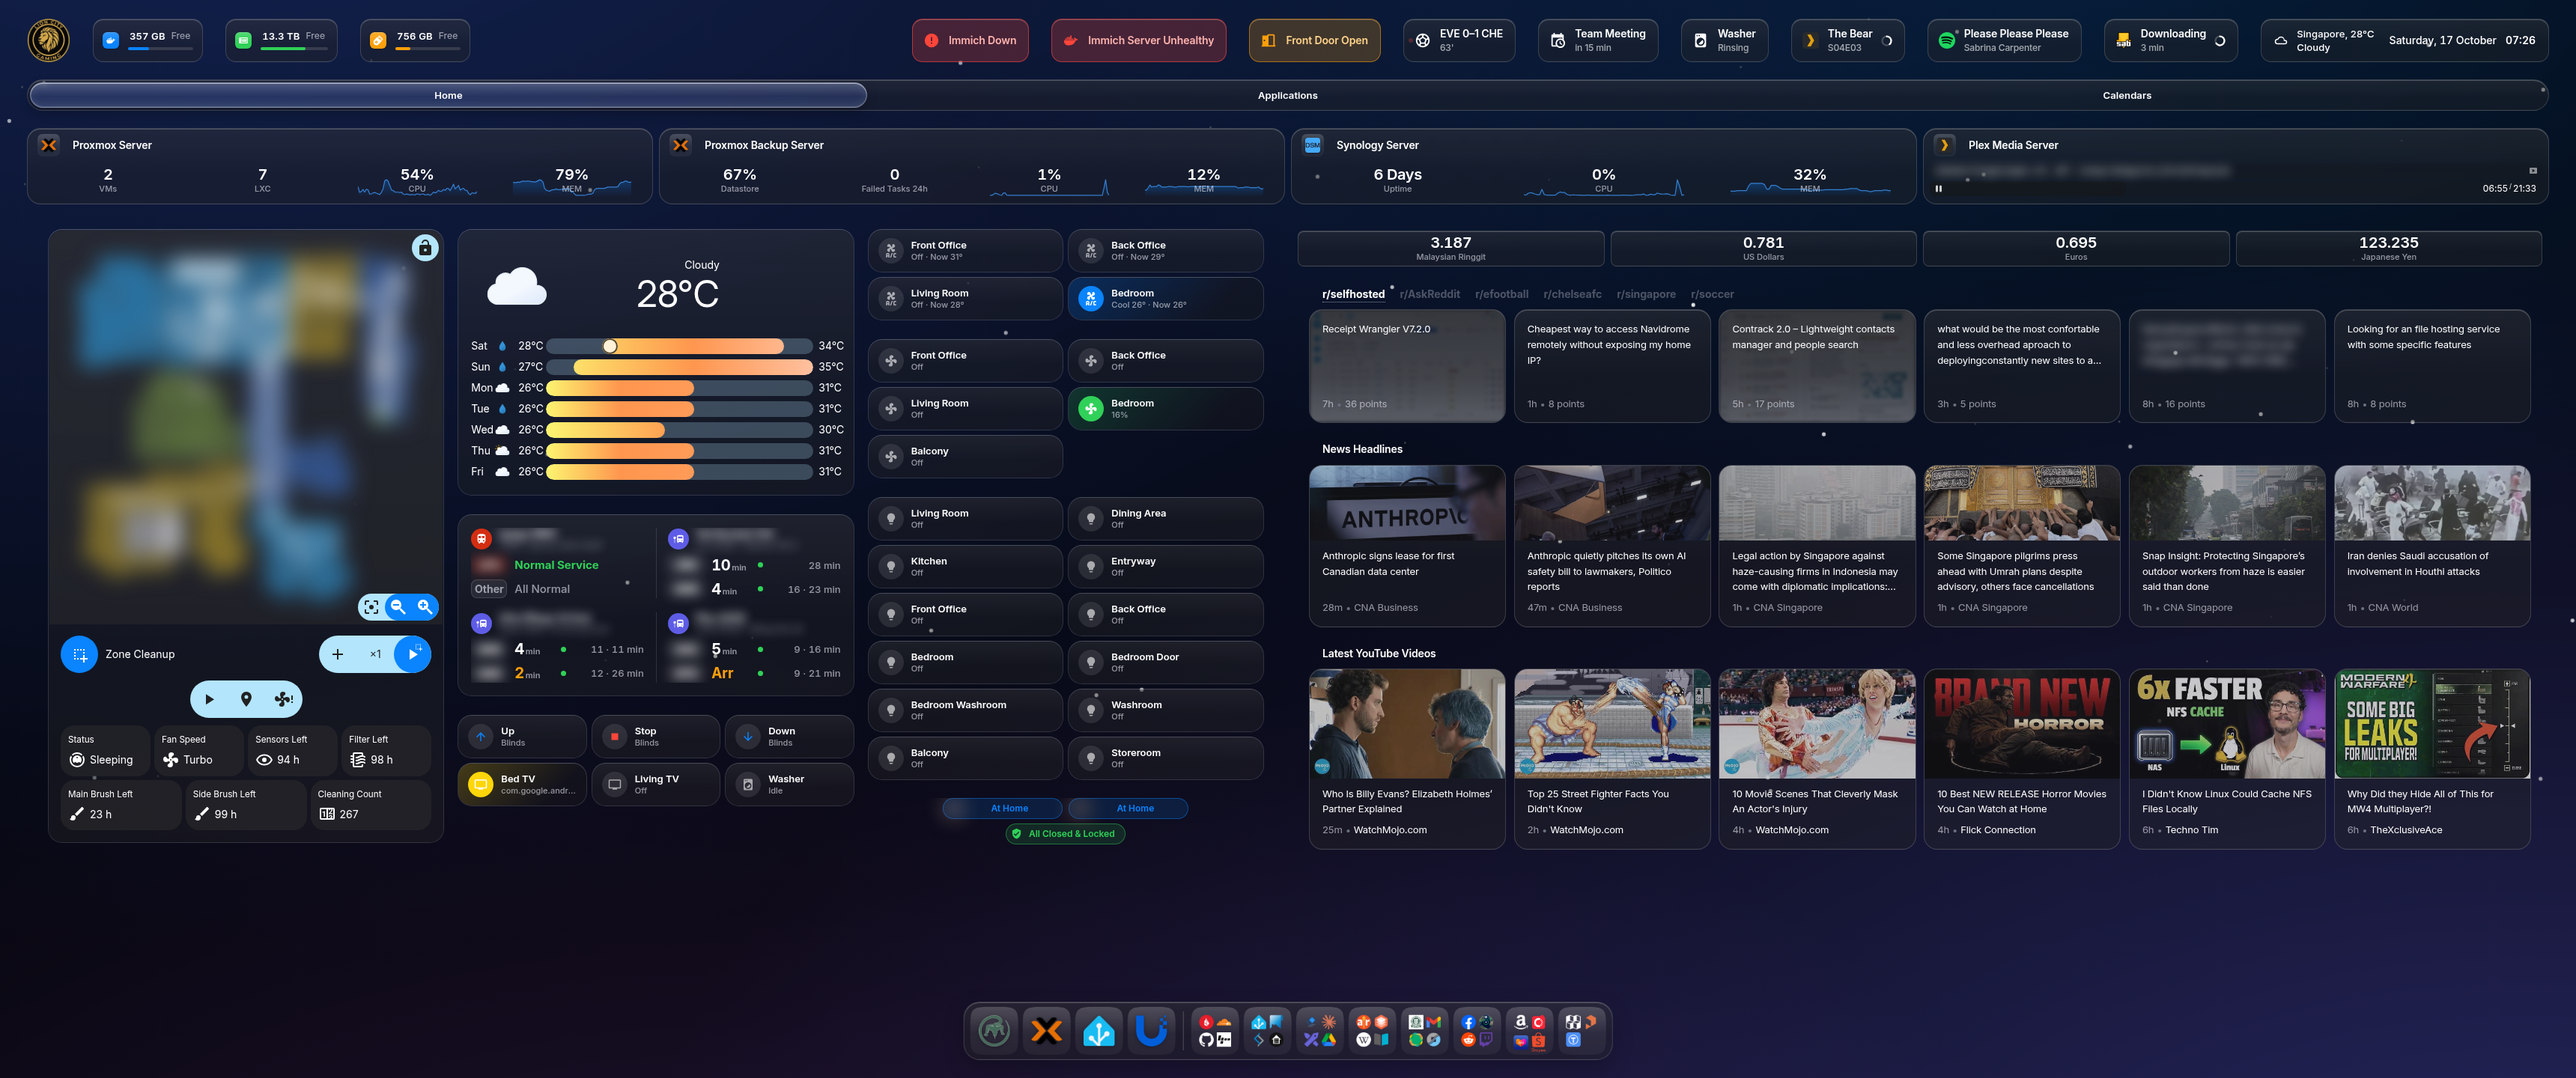
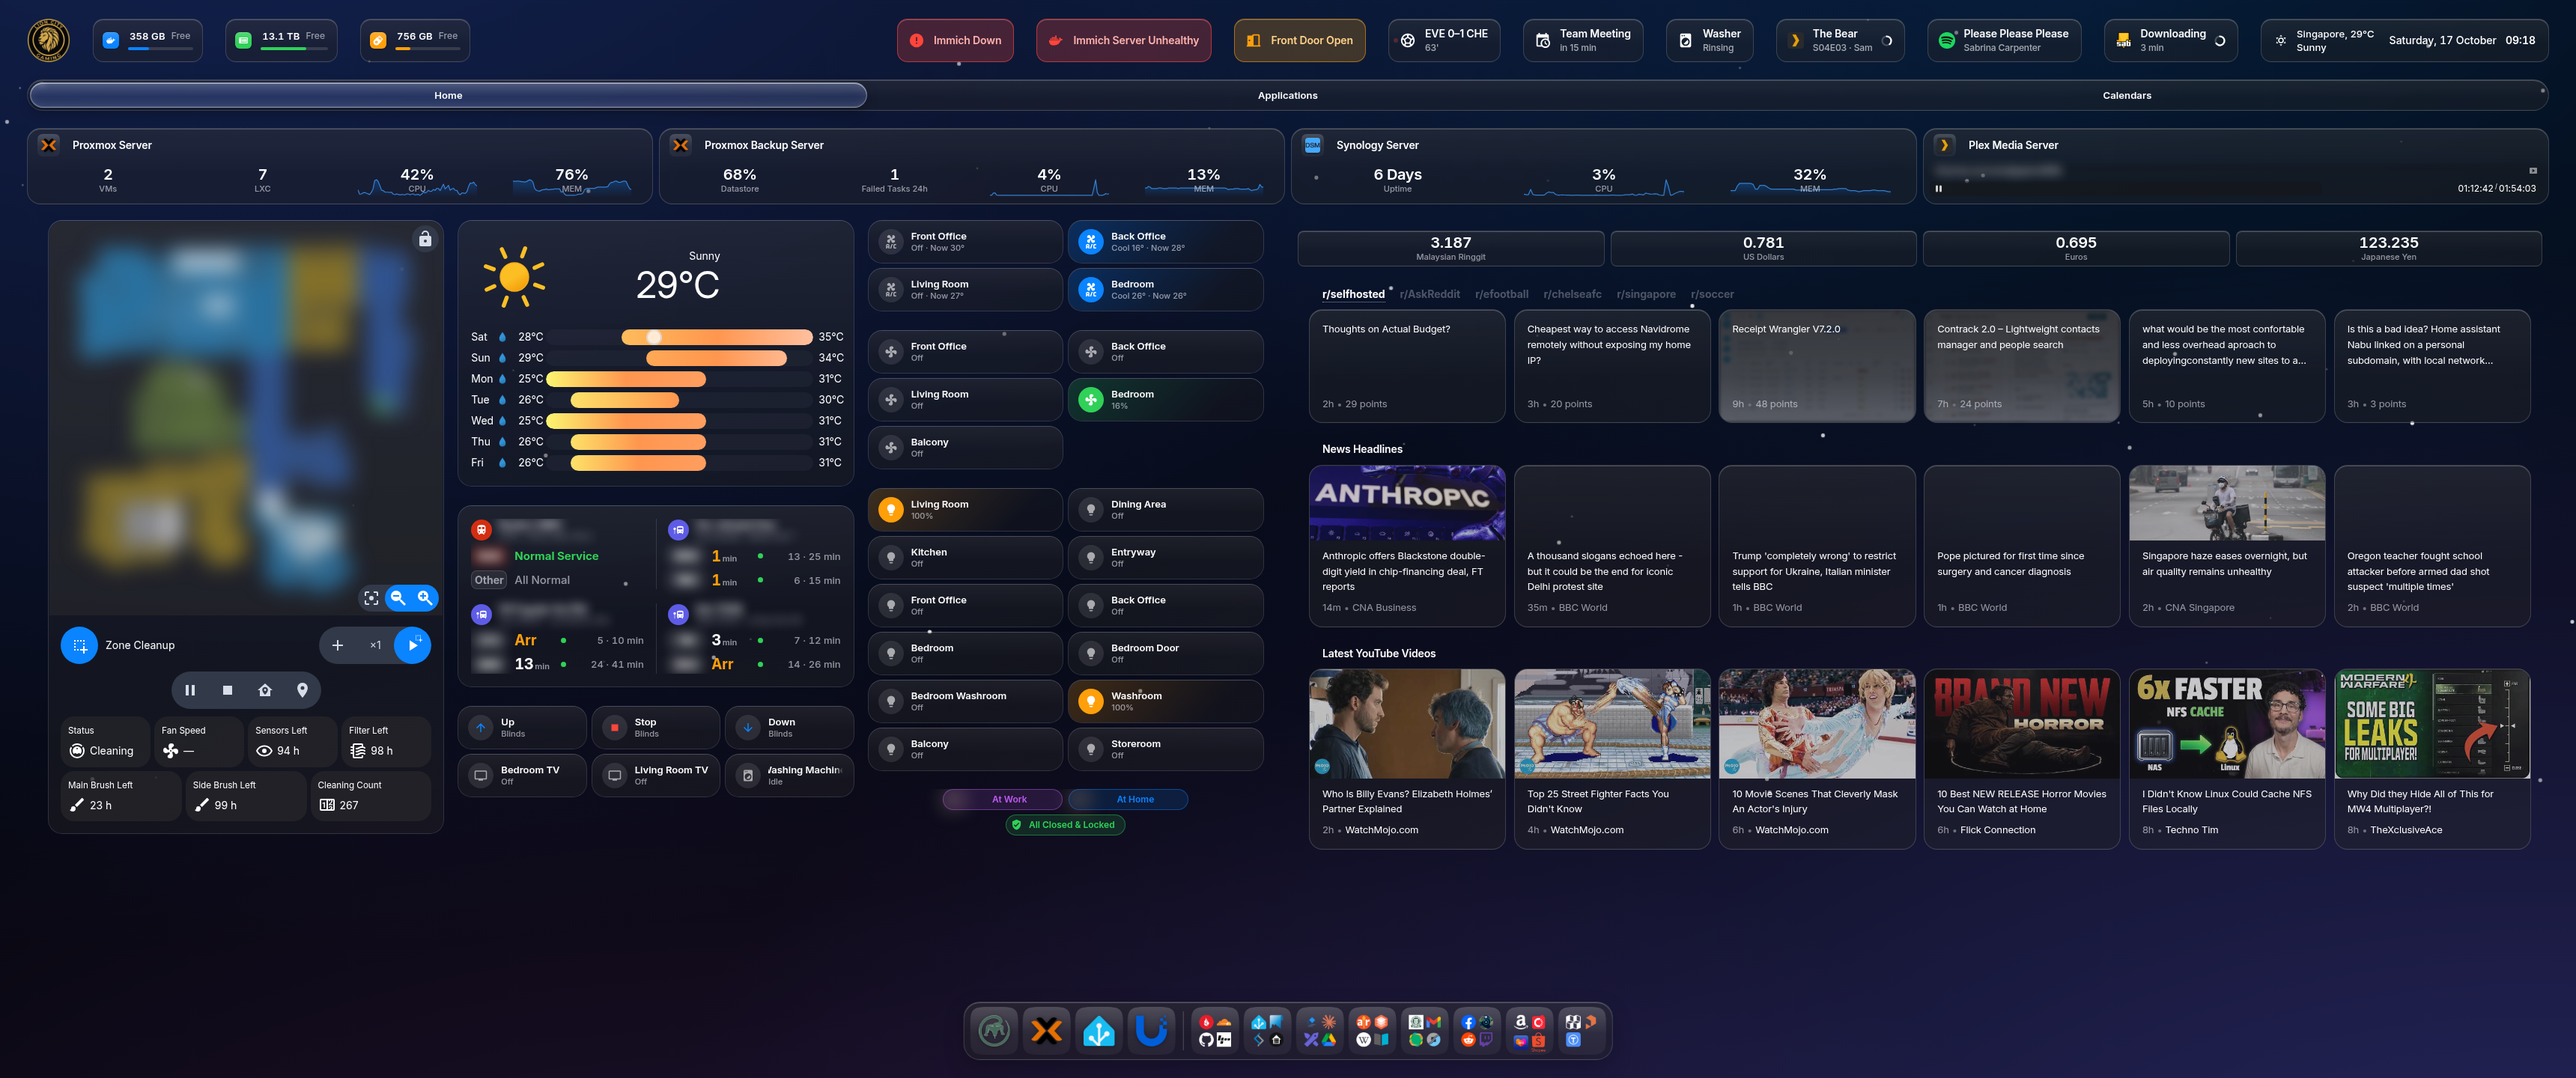
Long button names glide in the Home Assistant panels, every glide ends with its last letter clear, Plex Live Activity shows who is watching; new screenshots

diff --git a/extras/home-assistant-glass-embed.js b/extras/home-assistant-glass-embed.js
@@ -12,6 +12,8 @@
 // that page CSS can't reach, so each small card's shadow root gets a few CSS rules of its own (see below).
 // 16/10/2026: Liquid Glass (macOS 26), same as Homepage's "LIQUID GLASS" block and Glance: clearer cards (a 40% tint, was
 // 52%), a bright rim of light on the top edge, a lighter hairline; then the same sheen as Homepage's cards, no hover effects.
+// 17/10/2026: a button's name or status that is too long glides to its end and back (like Homepage's Gotify message and
+// Live Activities) instead of being cut off with "...".
 // Install: Settings > Dashboards > Resources > Add resource, type JavaScript module (or add it with the API as an
 // inline resource). Change EMBEDS to the dashboards you show in Homepage; the outline drawn just outside each card is
 // used on "/dashboard-homepage" only (the tile panel), as panels made of one full-frame card would clip it.
@@ -100,13 +102,39 @@
     "ha-card:not([data-hp-clear]) { background-origin: border-box !important; }" +
     // HA's pointer highlight off on every card (16/10/2026, user: still a "weird animation" on hover: a 4% white fade).
     // Button-card sets its own value on each tile, which beat the page-wide one, so it is set on the ripple itself
-    "ha-ripple, mwc-ripple, md-ripple { --md-ripple-hover-opacity: 0 !important; --ha-ripple-hover-opacity: 0 !important; --mdc-ripple-hover-opacity: 0 !important; }";
+    "ha-ripple, mwc-ripple, md-ripple { --md-ripple-hover-opacity: 0 !important; --ha-ripple-hover-opacity: 0 !important; --mdc-ripple-hover-opacity: 0 !important; }" +
+    // long names glide (glide() below marks them): same timing, pause and fade as Homepage's .hp-glide (custom.css)
+    ".hp-glide { text-overflow: clip !important; }" +
+    ".hp-glide-on { -webkit-mask: linear-gradient(90deg, #000 88%, transparent); mask: linear-gradient(90deg, #000 88%, transparent);" +
+    " animation: hp-glide var(--glide, 4s) ease-in-out 0.8s infinite alternate; }" +
+    "@keyframes hp-glide { 0%, 12% { text-indent: 0; } 88%, 100% { text-indent: var(--shift, 0); } }" +
+    "@media (prefers-reduced-motion: reduce) { .hp-glide-on { animation: none; -webkit-mask: none; mask: none; text-overflow: ellipsis !important; } }";
   // Only on the Home panel: the calendar, To Do and EPL panels are one card filling the whole frame, so a ring outside it
   // fell just beyond the frame and was cut off (user 16/10/2026: calendar borders disappearing). Those cards start on
   // whole pixels, so they keep a plain border
   if (p.indexOf("/dashboard-homepage") === 0) GLASS = GLASS +
     "ha-card:not([data-hp-clear]) { border-color: transparent !important; box-shadow: 0 0 0 0.5px rgba(255, 255, 255, 0.16), 0 -0.5px 0 0 rgba(255, 255, 255, 0.12) !important; }" +
     "@media (max-resolution: 1.5dppx) { ha-card:not([data-hp-clear]) { box-shadow: 0 0 0 1px rgba(255, 255, 255, 0.16), 0 -1px 0 0 rgba(255, 255, 255, 0.12) !important; } }";
+  // a button-card's name, status or state that doesn't fit: measured again only when its text or the button's width
+  // changes, so a running glide isn't restarted by every scan
+  function glide(el) {
+    var host = el.getRootNode().host, key = el.textContent + "|" + (host ? host.offsetWidth : 0);
+    // (the class is checked too: button-card can rewrite an element's classes when its entity updates)
+    if (!el.clientWidth || (el.getAttribute("data-glide-key") === key && el.classList.contains("hp-glide"))) return;
+    el.setAttribute("data-glide-key", key);
+    el.classList.add("hp-glide");
+    el.classList.remove("hp-glide-on");
+    el.style.removeProperty("width");
+    var over = el.scrollWidth - el.clientWidth;
+    if (over > 2) {
+      // held at its resting width: button-card's grid sizes the name to its text, so the box (and its fade) shrank as
+      // the text slid, and the fade caught the last letter again
+      el.style.width = el.clientWidth + "px";
+      el.style.setProperty("--shift", -(over + Math.ceil(el.clientWidth * 0.12)) + "px");  // past the end by the fade (right 12%), so the last letter shows
+      el.style.setProperty("--glide", Math.max(2, over / 30).toFixed(1) + "s");  // about 30 px a second, like Homepage
+      el.classList.add("hp-glide-on");
+    }
+  }
   function springRoots(node) {
     if (!node) return;
     if (node.tagName === "HA-CARD") {
@@ -123,6 +151,7 @@
         gl.textContent = GLASS;
         root.appendChild(gl);
       }
+      if (root !== document && root.host && root.host.tagName === "BUTTON-CARD") root.querySelectorAll("#name, #label, #state").forEach(glide);
       // only a root holding this one card (a big card's stack would grow with it), and only small cards
       if (h > 0 && h <= 140 && root !== document && root.host && !root.querySelector("style[data-hp-spring]") &&
           root.querySelectorAll("ha-card").length === 1) {

diff --git a/custom.js b/custom.js
@@ -395,7 +395,8 @@
       v.classList.remove("hp-glide-on");
       const over = v.scrollWidth - v.clientWidth;
       if (over > 2) {
-        v.style.setProperty("--shift", -over + "px");
+        // past the end by the fade's width (the right 12%, custom.css), so the last letter stops clear of it (user 17/10/2026)
+        v.style.setProperty("--shift", -(over + Math.ceil(v.clientWidth * 0.12)) + "px");
         v.style.setProperty("--glide", Math.max(2, over / 30).toFixed(1) + "s");  // about 30 px a second, like the Live Activities
         v.classList.add("hp-glide-on");
       }
@@ -1208,12 +1209,13 @@
       }));
       return out;
     }) },
-    // media: Plex (Tautulli on the Home tab's Plex card), up to two streams
+    // media: Plex (Tautulli on the Home tab's Plex card), up to two streams; the second line ends with who is watching
+    // (Tautulli's friendly name for the Plex user; user 17/10/2026)
     plex: { every: 15, read: () => proxy("group=Home&service=Plex%20Media%20Server&index=0&endpoint=get_activity").then((d) =>
       ((((d || {}).response || {}).data || {}).sessions || []).slice(0, 2).map((s) => {
         const ep = s.media_type === "episode" && s.parent_media_index ? " · S" + String(s.parent_media_index).padStart(2, "0") + "E" + String(s.media_index).padStart(2, "0") : "";
-        const name = (s.grandparent_title || s.title || "Plex") + ep;
-        return pill({ group: "media", icon: ICON_URL("plex"), text: (s.state === "paused" ? "❚❚ " : "") + name, pct: +s.progress_percent || 0,
+        const name = (s.grandparent_title || s.title || "Plex") + ep, who = s.friendly_name || s.user || "";
+        return pill({ group: "media", icon: ICON_URL("plex"), text: (s.state === "paused" ? "❚❚ " : "") + name + (who ? " · " + who : ""), pct: +s.progress_percent || 0,
           tip: (s.full_title || name) + " · " + (s.state || "playing") + " · " + (s.progress_percent || 0) + "%" + (s.player ? " · " + s.player : "") });
       })) },
     // downloads: SABnzbd
@@ -1233,7 +1235,7 @@
     pill({ group: "sport", icon: MDI("soccer"), mono: true, tone: "live", text: "EVE 0–1 CHE · 63'", tip: "Chelsea at Everton · live" }),
     pill({ group: "soon", icon: MDI("calendar-clock"), mono: true, text: "Team Meeting · in 15 min", tip: "Team Meeting at 10:00" }),
     pill({ group: "home", icon: MDI("washing-machine"), mono: true, text: "Washer · Rinsing", tip: "Washer: Rinse" }),
-    pill({ group: "media", icon: ICON_URL("plex"), text: "The Bear · S04E03", pct: 38, tip: "The Bear - S04E03 · playing · 38%" }),
+    pill({ group: "media", icon: ICON_URL("plex"), text: "The Bear · S04E03 · Sam", pct: 38, tip: "The Bear - S04E03 · playing · 38%" }),
     pill({ group: "media", icon: ICON_URL("spotify"), text: "Please Please Please · Sabrina Carpenter", tip: "You · Please Please Please · Sabrina Carpenter" }),
     pill({ group: "download", icon: ICON_URL("sabnzbd"), text: "Downloading · 3 min", pct: 64, tip: "1 download · 64% · 48 MB/s" }),
   ];
@@ -1295,7 +1297,7 @@
       const over = t.firstChild.scrollWidth - t.clientWidth;
       if (over > 2) {
         t.classList.add("hp-live-glide");
-        t.style.setProperty("--shift", -over + "px");
+        t.style.setProperty("--shift", -(over + Math.ceil(t.clientWidth * 0.15)) + "px");  // past the end by the fade (right 15%), so the last letter shows
         t.style.setProperty("--glide", Math.max(2, over / 30).toFixed(1) + "s");  // about 30 px a second
       }
     });

diff --git a/README.md b/README.md
@@ -50,7 +50,7 @@
 
 ### Live information
 
-- **Live Activities.** Two-line glass boxes in the menu bar, like the disks, that only appear while something is happening: a service or container down (named, with its state), a door open, your football team's kick-off countdown and live score, a meeting in the next 30 minutes, a birthday or public holiday, the washer with its stage, the vacuum's progress, what is playing on Plex or Spotify, and downloads. Red for problems, amber when something may need you and green for good news, each with a matching edge; a progress ring where there is one, and long lines glide.
+- **Live Activities.** Two-line glass boxes in the menu bar, like the disks, that only appear while something is happening: a service or container down (named, with its state), a door open, your football team's kick-off countdown and live score, a meeting in the next 30 minutes, a birthday or public holiday, the washer with its stage, the vacuum's progress, what is playing on Plex (and who is watching) or Spotify, and downloads. Red for problems, amber when something may need you and green for good news, each with a matching edge; a progress ring where there is one, and long lines glide.
 - **Notification banners.** A new Gotify message slides in at the top right like a macOS banner, on any tab. Priority 8 and up stays until you close it, lower priorities leave after a few seconds, and 0 to 3 stay quiet.
 - **Trend lines.** The CPU and memory figures on the server cards carry a faint line of the last 24 hours, with the day's range on hover.
 - **Disk meters.** Each disk in the menu bar has its own icon and colour, turning amber at 75% and red at 90%.
@@ -186,7 +186,7 @@ Add these to the Homepage address to preview or switch things. They combine with
 
 | File | What it does |
 |---|---|
-| `extras/home-assistant-glass-embed.js` | Gives Home Assistant dashboards shown inside Homepage the same Liquid Glass look: see-through page, matching tint, sheen, rim and hairline, the same font, and no hover effects. It only applies inside an iframe, so Home Assistant itself looks unchanged. Set `EMBEDS` at the top to your dashboards and add it as a dashboard resource (instructions in the file) |
+| `extras/home-assistant-glass-embed.js` | Gives Home Assistant dashboards shown inside Homepage the same Liquid Glass look: see-through page, matching tint, sheen, rim and hairline, the same font, no hover effects, and button names too long for their tile glide like Homepage's instead of being cut off. It only applies inside an iframe, so Home Assistant itself looks unchanged. Set `EMBEDS` at the top to your dashboards and add it as a dashboard resource (instructions in the file) |
 | `extras/home-assistant-touch-spring.js` | An iOS-style press and bounce for tiles on phone and wall-tablet dashboards, without Android's square tap highlight. Set `PAGES` at the top to your dashboards |
 | `extras/glance-glass.css` | The same look for [Glance](https://github.com/glanceapp/glance): add it to the end of your Glance custom CSS |
 | `extras/beszel-summary.py` | Serves the Beszel card's second row and the trend-line history. Run it next to Beszel with `BESZEL_USER` and `BESZEL_PASSWORD` set, on the same Docker network as Homepage |
